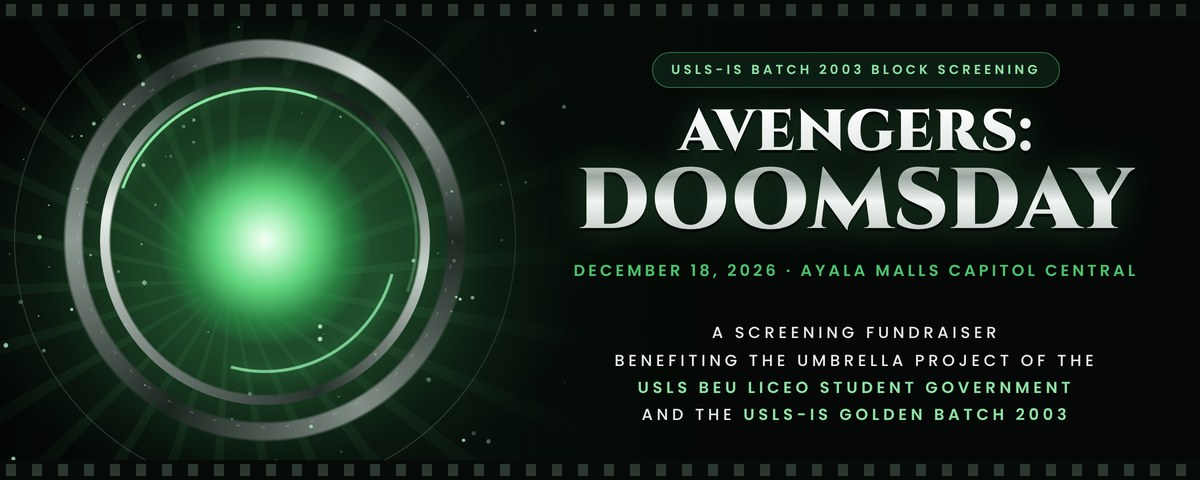
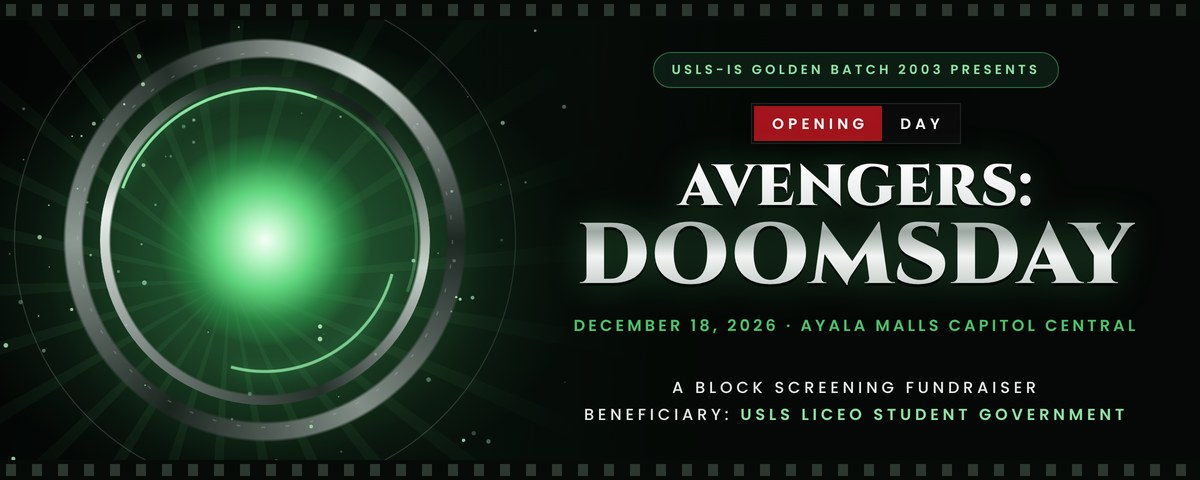
Doomsday images: opening day badge, Batch 2003 first, Liceo beneficiary

diff --git a/backend/utils/email.js b/backend/utils/email.js
@@ -282,7 +282,7 @@ const sendScreeningConfirmationEmail = async (details) => {
 <!-- Header Image -->
 <tr>
 <td style="padding:0;">
-<img src="https://thegoldenbatch2003.com/images/doomsday-email-header.jpg" alt="Avengers: Doomsday block screening, a fundraiser benefiting the Umbrella Project of the USLS BEU Liceo Student Government and the USLS-IS Golden Batch 2003" width="600" height="240" style="display:block;width:100%;max-width:600px;height:auto;border:0;">
+<img src="https://thegoldenbatch2003.com/images/doomsday-email-header.jpg" alt="USLS-IS Golden Batch 2003 presents Avengers: Doomsday, an opening day block screening fundraiser. Beneficiary: USLS Liceo Student Government." width="600" height="240" style="display:block;width:100%;max-width:600px;height:auto;border:0;">
 </td>
 </tr>
 <!-- Body -->

diff --git a/frontend/public/index.html b/frontend/public/index.html
@@ -10,6 +10,7 @@
   <meta property="og:image" content="https://thegoldenbatch2003.com/images/doomsday-link-preview.jpg" />
   <meta property="og:image:width" content="1200" />
   <meta property="og:image:height" content="630" />
+  <meta property="og:image:alt" content="USLS-IS Batch 2003 presents Avengers: Doomsday, opening day block screening fundraiser on December 18, 2026 at Ayala Malls Capitol Central. Beneficiary: USLS Liceo Student Government." />
   <meta property="og:type" content="website" />
   <meta name="twitter:card" content="summary_large_image" />
   <meta name="twitter:image" content="https://thegoldenbatch2003.com/images/doomsday-link-preview.jpg" />
